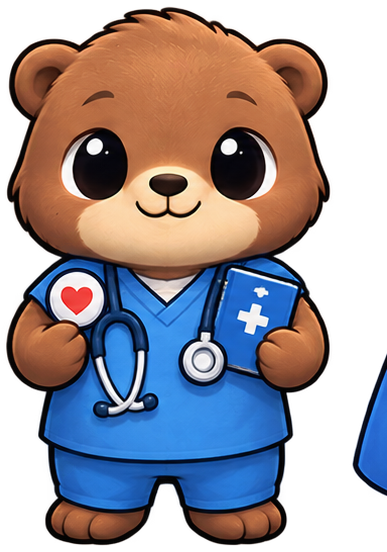
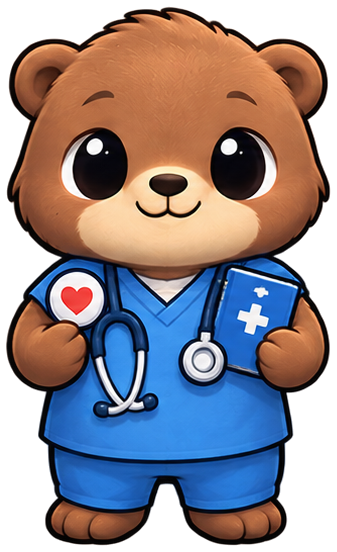
Fix stray character fragments and improve bubble sheen visibility
Two bugs from the last push:
1. The column-based crop picked up disconnected fragments bleeding
   in from the neighboring character (e.g. europe-n4 had a piece of
   n5's hand on its right edge). Re-cropped all 20 images (Protection
   sociale, Europe, Société, Défense × 5) using connected-component
   labeling that keeps only the largest opaque blob per column,
   discarding anything not actually attached to the character.
2. The blister-sheen texture used background-size:cover, which
   center-crops a portrait source image into very different bubble
   aspect ratios (150x250 main vs 56x56 accessory) — often cropping
   out the reflective highlight streaks entirely. Switched to
   100% 100% so the full texture (and its highlights) always shows,
   just stretched instead of cropped.

Verified locally: no more stray fragments on the re-cropped set.

diff --git a/index.html b/index.html
@@ -448,7 +448,7 @@
   .blister-window{ display:flex; align-items:center; justify-content:center; gap:14px; }
   .blister-bubble{
     background-image:url('assets/ui/blister-sheen.png'), radial-gradient(circle at 32% 28%, #ffffff, #f2f2f2 70%);
-    background-size:cover, cover;
+    background-size:100% 100%, cover;
     background-position:center, center;
     background-blend-mode:screen, normal;
     border-radius:50%; border:3px solid rgba(20,18,31,.15);
